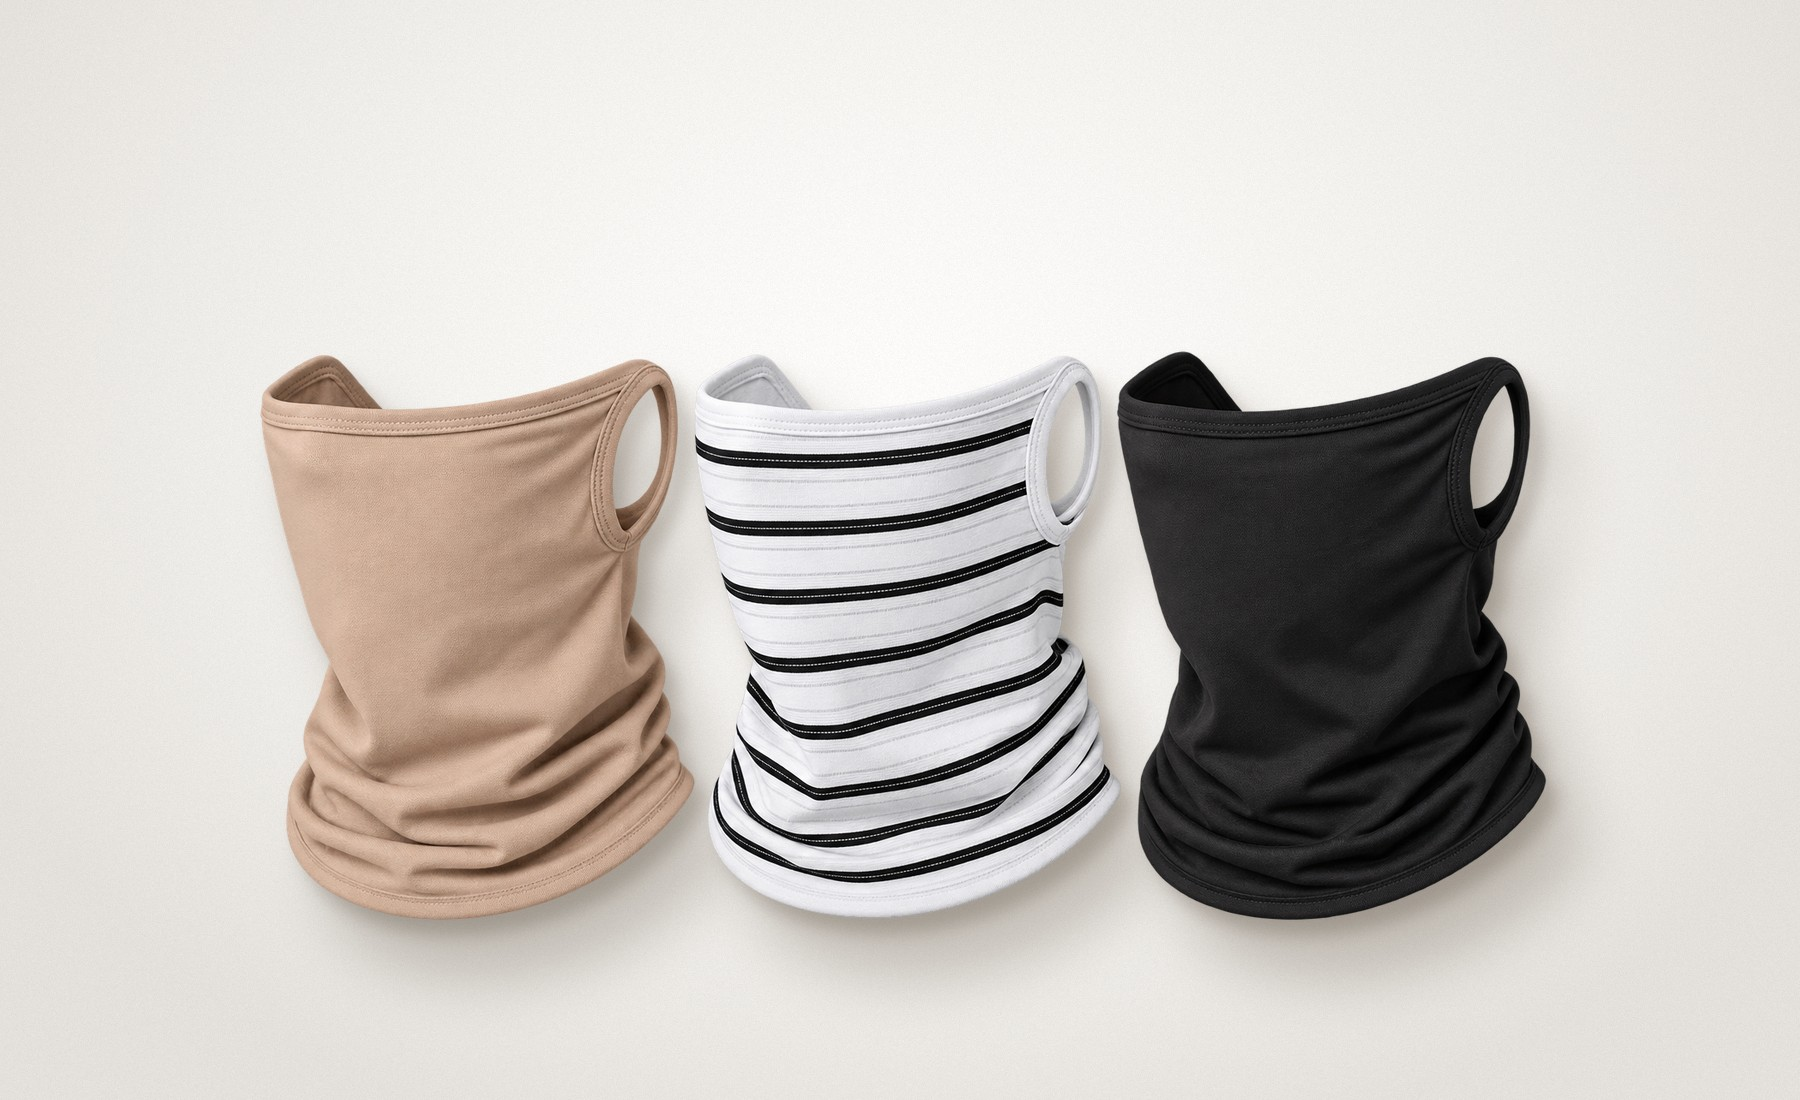
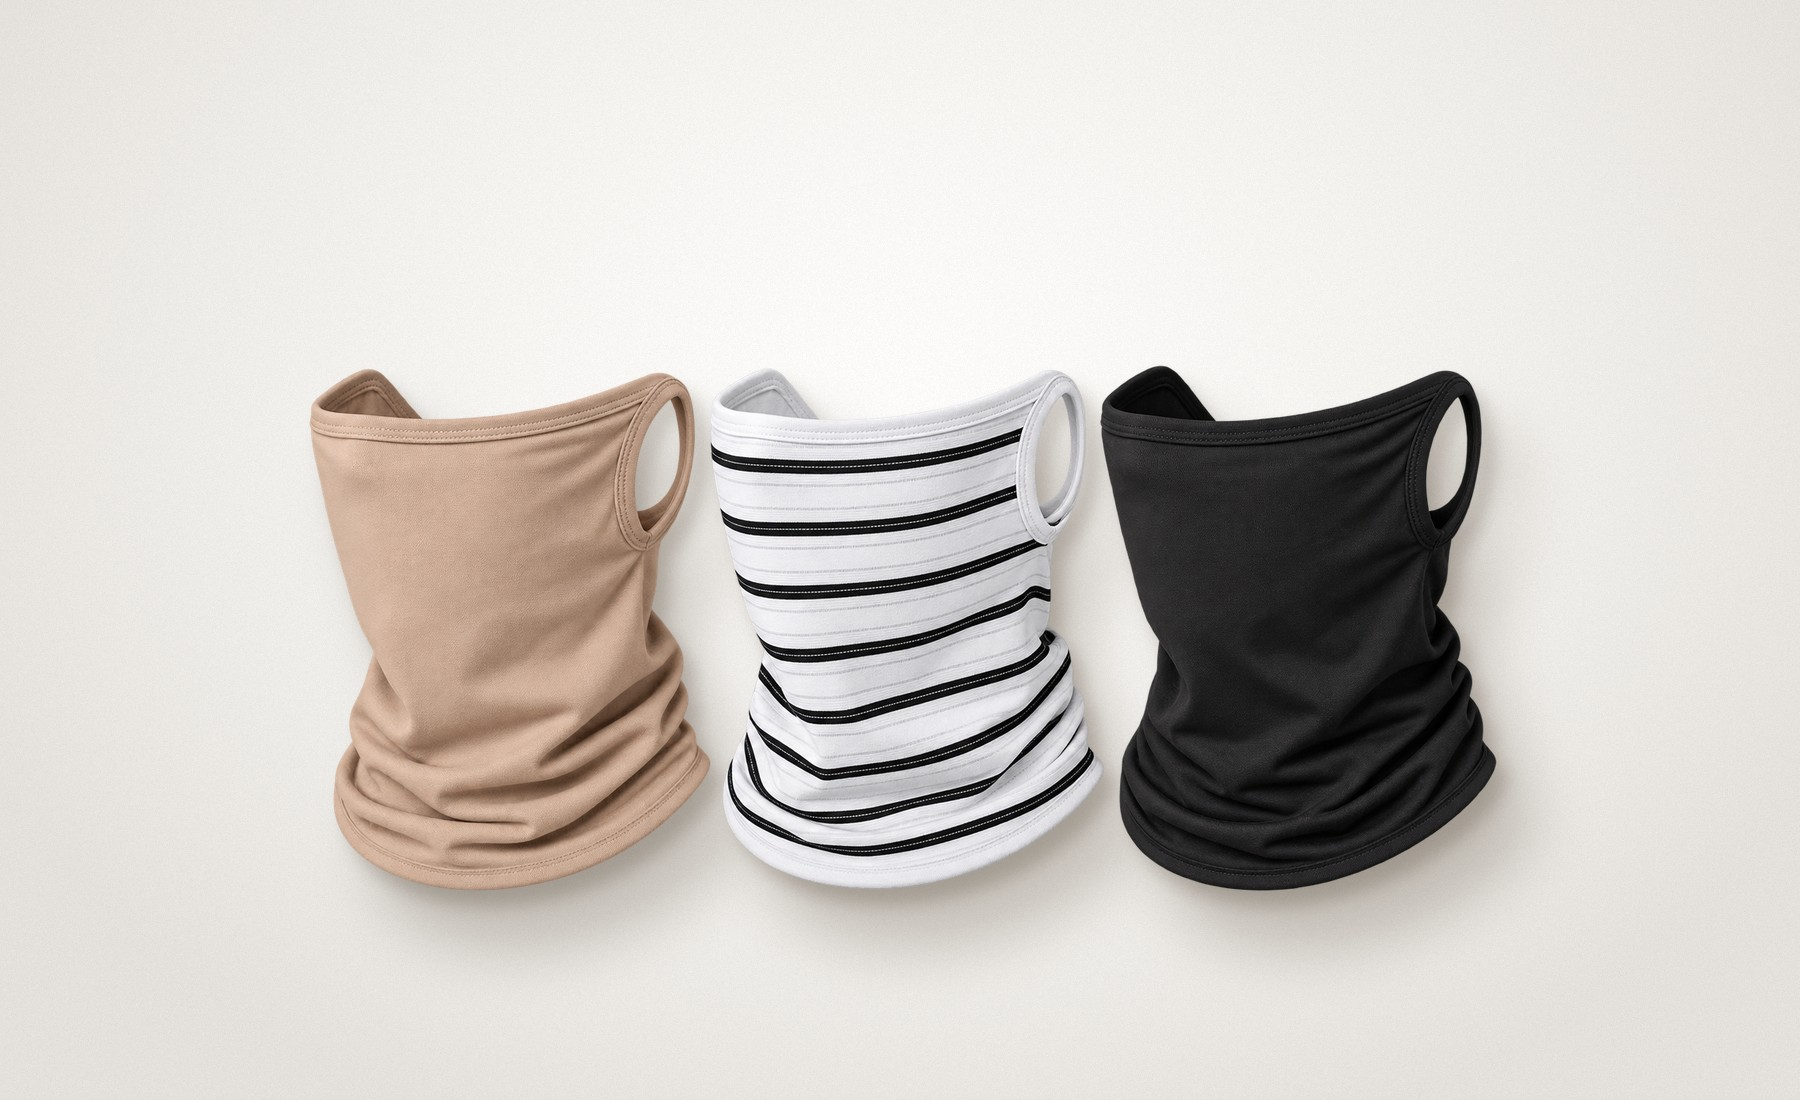
Sync goods assets

Changed region(s): [[0.1244, 0.3091, 0.8711, 0.8655]]

diff --git a/medal/v2/page.html b/medal/v2/page.html
@@ -84,8 +84,6 @@ html,body{margin:0;background:var(--bg);color:var(--fg);font-family:"Pretendard"
 #yh-spec .strip .ar{appearance:none;border:1px solid rgba(255,255,255,.18);background:transparent;color:rgba(255,255,255,.75);width:28px;height:28px;border-radius:50%;display:inline-grid;place-items:center;cursor:pointer;padding:0;transition:background .25s,color .25s,border-color .25s}
 #yh-spec .strip .ar:hover{background:#fff;color:#212121;border-color:#fff}
 #yh-spec .strip .ar:focus-visible{outline:2px solid #fff;outline-offset:2px}
-#yh-spec .strip img.flat{transition:opacity .25s ease}
-#yh-spec .strip img.flat.fade{opacity:.25}
 @media (max-width:520px){#yh-spec .strip .srow{grid-template-columns:1fr;gap:6px}#yh-spec .strip .cap{margin-left:0}}
 
 
@@ -137,15 +135,17 @@ html,body{margin:0;background:var(--bg);color:var(--fg);font-family:"Pretendard"
 /* kit: line drawings rolling beside the list */
 #yh-goods .kit{display:grid;grid-template-columns:minmax(0,1.15fr) minmax(0,1fr);gap:clamp(24px,4vw,64px);align-items:center;margin:clamp(40px,7vh,72px) 0 clamp(56px,9vh,96px)}
 #yh-goods .belt{position:relative;overflow:hidden;-webkit-mask:linear-gradient(90deg,transparent,#000 14%,#000 86%,transparent);mask:linear-gradient(90deg,transparent,#000 14%,#000 86%,transparent)}
-#yh-goods .track{display:flex;align-items:center;width:max-content;animation:yhbelt 76s linear infinite}
-#yh-goods .belt:hover .track{animation-play-state:paused}
-@keyframes yhbelt{to{transform:translateX(-50%)}}
+#yh-goods .track{display:flex;align-items:center;width:max-content;will-change:transform}
+#yh-goods .belt{cursor:grab;touch-action:pan-y;user-select:none;-webkit-user-select:none}
+#yh-goods .belt.drag{cursor:grabbing}
+#yh-goods .belt img{-webkit-user-drag:none;pointer-events:none}
 #yh-goods .it{flex:none;height:clamp(140px,14vw,200px);margin-right:clamp(32px,4vw,64px);display:flex;align-items:center}
 #yh-goods .it img{height:100%;width:auto;opacity:.85}
 #yh-goods .it:has(img[src*="l_bar"]) img{height:50%}
 #yh-goods .it:has(img[src*="l_hat"]) img{height:72%}
 #yh-goods .it:has(img[src*="l_gaiter"]) img{height:66%}
-#yh-goods .it:has(img[src*="l_bag"]) img{height:84%}
+#yh-goods .it:has(img[src*="l_bag"]) img{height:100%}
+#yh-goods .it:has(img[src*="l_jk"]){height:calc(clamp(140px,14vw,200px) * 1.2)}
 #yh-goods tr.grp th{text-align:left;width:auto;white-space:normal;padding:22px 0 8px;font-size:13px;font-weight:800;color:#FF6D07;border-bottom:1px solid rgba(255,255,255,.1)}
 #yh-goods .tile .tg{position:absolute;left:16px;top:16px;background:#212121;color:#fff;font-size:12px;font-weight:800;border-radius:999px;padding:6px 11px;z-index:1}
 #yh-goods .tbl{position:relative}
@@ -201,6 +201,8 @@ html,body{margin:0;background:var(--bg);color:var(--fg);font-family:"Pretendard"
 #yh-goods .tile[aria-expanded="true"]{flex-basis:46%;flex-grow:1.6}
 #yh-goods .tile .ph{position:absolute;inset:0;width:100%;height:100%;object-fit:cover;object-position:50% 50%;transition:transform 1.2s cubic-bezier(.32,.72,0,1)}
 #yh-goods .tile:hover .ph{transform:scale(1.02)}
+#yh-goods .tile .ph.alt{opacity:0;transition:opacity .7s ease .35s,transform 1.2s cubic-bezier(.32,.72,0,1)}
+#yh-goods .tile[aria-expanded="true"] .ph.alt{opacity:1}
 #yh-goods .tile:nth-child(3n+1){color:#212121}
 #yh-goods .tile:nth-child(3n+2),#yh-goods .tile:nth-child(3n){color:#fff}
 #yh-goods .tile .nm{position:absolute;left:18px;bottom:18px;max-width:calc(100% - 36px);padding:10px 14px;border-radius:14px;background:rgba(255,255,255,.88);color:#212121;backdrop-filter:blur(8px);-webkit-backdrop-filter:blur(8px);font-size:clamp(14px,1.2vw,17px);font-weight:800;letter-spacing:-.02em;line-height:1.35;opacity:0;transform:translateY(6px);transition:opacity .25s,transform .25s}
@@ -212,7 +214,7 @@ html,body{margin:0;background:var(--bg);color:var(--fg);font-family:"Pretendard"
 #yh-goods .tile.soon .nm{opacity:1;transform:none;font-size:14px;letter-spacing:.08em;left:50%;top:50%;bottom:auto;transform:translate(-50%,-50%);background:none;color:#fff;white-space:nowrap}
 #yh-goods .note{margin:clamp(48px,8vh,72px) 0 0;font-size:12px;color:rgba(255,255,255,.42);text-align:center}
 @media (max-width:720px){#yh-goods .kit{grid-template-columns:1fr}#yh-goods .tile{flex-basis:38%;height:clamp(210px,54vw,300px)}#yh-goods .tile[aria-expanded="true"]{flex-basis:100%}}
-@media (prefers-reduced-motion:reduce){#yh-goods .track{animation:none}#yh-goods .tile{transition:none}}
+@media (prefers-reduced-motion:reduce){#yh-goods .tile{transition:none}}
 </style>
 <script>
 /* a CDN hiccup on first load shouldn't leave a broken picture: try again twice */
@@ -272,13 +274,25 @@ document.addEventListener('error',function(e){var i=e.target;if(!i||i.tagName!==
 <script>
 (function(){
   var S=document.getElementById('yh-spec');
+  var tick=0,cache={};
+  function base(){return window.YH_ASSET_BASE||''}
+  function load(k){
+    if(cache[k]) return cache[k];
+    var b=base(),u=['rib_'+k+'_out.jpg','rib_'+k+'_in.jpg','strip_'+k+'_out.jpg','strip_'+k+'_in.jpg'];
+    return cache[k]=Promise.all(u.map(function(f){return new Promise(function(r){var im=new Image();im.onload=im.onerror=function(){r()};im.src=b+f})}));
+  }
   function show(k){
-    S.querySelectorAll('image.rib').forEach(function(i){i.setAttribute('href','rib_'+k+'_'+i.dataset.face+'.jpg')});
-    cur=k;
-    S.querySelectorAll('img.flat').forEach(function(i){var src=(window.YH_ASSET_BASE||'')+'strip_'+k+'_'+i.dataset.face+'.jpg';if(i.getAttribute('src')===src)return;var n=new Image();i.classList.add('fade');n.onload=n.onerror=function(){i.src=src;requestAnimationFrame(function(){i.classList.remove('fade')})};n.src=src});
+    cur=k; var mine=++tick;
     S.querySelectorAll('.cl b').forEach(function(b){b.classList.toggle('on',b.dataset.k===k)});
     S.querySelectorAll('.tabs button').forEach(function(b){b.setAttribute('aria-pressed',b.dataset.k===k)});
+    load(k).then(function(){
+      if(mine!==tick) return;                       // a newer choice already won
+      var b=base();
+      S.querySelectorAll('image.rib').forEach(function(i){i.setAttribute('href',b+'rib_'+k+'_'+i.dataset.face+'.jpg')});
+      S.querySelectorAll('img.flat').forEach(function(i){i.src=b+'strip_'+k+'_'+i.dataset.face+'.jpg'});
+    });
   }
+  setTimeout(function(){['5k','10k','15k'].forEach(load)},2500);
   var K=['5k','10k','15k','28k'],cur='28k';
   function go(k){ if(window.YH_setCourse) window.YH_setCourse(k); else show(k); }
   S.querySelectorAll('.tabs button').forEach(function(b){b.addEventListener('click',function(){go(b.dataset.k)})});
@@ -368,8 +382,8 @@ document.addEventListener('error',function(e){var i=e.target;if(!i||i.tagName!==
 <section id="yh-jk" aria-labelledby="yh-jk-t">
  <div class="wrap">
   <span class="tag">15KM · 28KM 트레일런 한정</span>
-  <h2 id="yh-jk-t">2026 YHITF<br>트레일런 기념 자켓</h2>
-  <p class="lead">15KM·28KM 트레일런 참가자에게만 드리는 기념 자켓입니다.<br><strong>소매에는 FINISHER, 등 하단에는 YHITF 로고가 들어갑니다.</strong></p>
+  <h2 id="yh-jk-t">2026 YHITF<br>트레일런 완주 기념 자켓</h2>
+  <p class="lead">15KM · 28KM 트레일런 완주 시,<br>완주를 기념하는 자켓을 받으실 수 있습니다.</p>
   <figure class="hero"><img src="jk_mock.webp" alt="네이비 후드 자켓 여성용과 남성용. 왼쪽 가슴에 YHITF 로고, 오른쪽 소매에 FINISHER 프린트" width="1774" height="887" loading="lazy"><figcaption><span>여성</span><span>남성</span></figcaption></figure>
   <div class="det">
    <figure><div class="fl"><img src="jk_front.webp" alt="자켓 앞면 도안: 왼쪽 가슴 YHITF 로고, 소매 FINISHER" width="1000" height="1597" loading="lazy"></div><figcaption>FRONT</figcaption></figure>
@@ -393,12 +407,34 @@ tabs.forEach(function(b,i){b.addEventListener('click',function(){pick(b)});b.add
   <h2 id="yh-goods-t"><b>10만원 상당</b> 러닝 키트,<br>참가자 전원 증정</h2>
   <div class="kit">
    <div class="belt" aria-label="러닝 키트 구성품 라인 일러스트"><div class="track"><div class="it"><img src="l_tee_front.svg" alt="" decoding="async"></div><div class="it"><img src="l_jk_front.svg" alt="" decoding="async"></div><div class="it"><img src="l_hat_front.svg" alt="" decoding="async"></div><div class="it"><img src="l_bar.svg" alt="" decoding="async"></div><div class="it"><img src="l_bag.svg" alt="" decoding="async"></div><div class="it"><img src="l_tee_back.svg" alt="" decoding="async"></div><div class="it"><img src="l_hat_side.svg" alt="" decoding="async"></div><div class="it"><img src="l_gaiter.svg" alt="" decoding="async"></div><div class="it"><img src="l_medal.svg" alt="" decoding="async"></div><div class="it"><img src="l_jk_back.svg" alt="" decoding="async"></div><div class="it"><img src="l_hat_back.svg" alt="" decoding="async"></div><div class="it"><img src="l_tee_front.svg" alt="" decoding="async"></div><div class="it"><img src="l_jk_front.svg" alt="" decoding="async"></div><div class="it"><img src="l_hat_front.svg" alt="" decoding="async"></div><div class="it"><img src="l_bar.svg" alt="" decoding="async"></div><div class="it"><img src="l_bag.svg" alt="" decoding="async"></div><div class="it"><img src="l_tee_back.svg" alt="" decoding="async"></div><div class="it"><img src="l_hat_side.svg" alt="" decoding="async"></div><div class="it"><img src="l_gaiter.svg" alt="" decoding="async"></div><div class="it"><img src="l_medal.svg" alt="" decoding="async"></div><div class="it"><img src="l_jk_back.svg" alt="" decoding="async"></div><div class="it"><img src="l_hat_back.svg" alt="" decoding="async"></div></div></div>
-   <div class="tbl"><table><thead><tr><th scope="col">구성품</th><th scope="col">수량</th></tr></thead><tbody><tr><td>2026 YHITF 완주 메달</td><td>1ea</td></tr><tr><td>KEEN 콜라보 기념 티셔츠</td><td>1ea</td></tr><tr><td>92 바르셀로나 기념 황영조 감독 사인 모자</td><td>1ea</td></tr><tr><td>네이처밸리 오츠 앤 다크 초콜릿</td><td>1ea</td></tr><tr><td>네이처밸리 크런치 초콜릿칩</td><td>1ea</td></tr><tr><td>타포린백</td><td>1ea</td></tr><tr><td>기능성 마스크<small class="nt">색상 3종 중 랜덤 1 / 선택 불가</small></td><td>1ea</td></tr><tr class="grp"><th scope="rowgroup" colspan="2">15KM · 28KM 트레일런 참가자 추가</th></tr><tr><td>2026 YHITF 트레일런 기념 자켓</td><td>1ea</td></tr><tr class="soon"><td><b class="more">MORE</b></td><td>COMING SOON</td></tr></tbody></table><span class="dots" aria-hidden="true"></span></div>
+   <div class="tbl"><table><thead><tr><th scope="col">구성품</th><th scope="col">수량</th></tr></thead><tbody><tr><td>2026 YHITF 완주 메달</td><td>1ea</td></tr><tr><td>KEEN 콜라보 기념 티셔츠</td><td>1ea</td></tr><tr><td>92 바르셀로나 기념 황영조 감독 사인 모자</td><td>1ea</td></tr><tr><td>네이처밸리 오츠 앤 다크 초콜릿</td><td>1ea</td></tr><tr><td>네이처밸리 크런치 초콜릿칩</td><td>1ea</td></tr><tr><td>타포린백</td><td>1ea</td></tr><tr><td>기능성 마스크<small class="nt">색상 3종 중 랜덤 1 / 선택 불가</small></td><td>1ea</td></tr><tr class="grp"><th scope="rowgroup" colspan="2">15KM · 28KM 트레일런 참가자 대상</th></tr><tr><td>완주 기념 자켓 (완주 시)</td><td>1ea</td></tr></tbody></table></div>
   </div>
-  <div class="tiles"><button type="button" class="tile" aria-expanded="true" aria-label="KEEN 콜라보 기념 티셔츠"><span class="in"><img class="ph" src="t_tee.jpg" alt="" loading="lazy"><span class="nm">KEEN 콜라보 기념 티셔츠</span></span></button><button type="button" class="tile" aria-expanded="false" aria-label="네이처밸리 오츠 앤 다크 초콜릿"><span class="in"><img class="ph" src="t_bar_oats.jpg" alt="" loading="lazy"><span class="nm">네이처밸리 오츠 앤 다크 초콜릿</span></span></button><button type="button" class="tile" aria-expanded="false" aria-label="2026 YHITF 완주 메달"><span class="in"><img class="ph" src="t_medal.jpg" alt="" loading="lazy"><span class="nm">2026 YHITF 완주 메달</span></span></button><button type="button" class="tile" aria-expanded="false" aria-label="네이처밸리 크런치 초콜릿칩"><span class="in"><img class="ph" src="t_bar_choc.jpg" alt="" loading="lazy"><span class="nm">네이처밸리 크런치 초콜릿칩</span></span></button><button type="button" class="tile" aria-expanded="false" aria-label="92 바르셀로나 기념 황영조 감독 사인 모자"><span class="in"><img class="ph" src="t_hat.jpg" alt="" loading="lazy"><span class="nm">92 바르셀로나 기념 황영조 감독 사인 모자</span><span class="meta">FREE (뒷 스트랩 조절)<br>머리둘레 56–60cm</span></span></button><button type="button" class="tile" aria-expanded="false" aria-label="타포린백"><span class="in"><img class="ph" src="t_bag.jpg" alt="" loading="lazy"><span class="nm">타포린백</span></span></button><button type="button" class="tile" aria-expanded="false" aria-label="기능성 마스크, 색상 3종 중 랜덤 1"><span class="in"><img class="ph" src="t_gaiter.jpg" alt="" loading="lazy"><span class="nm">기능성 마스크 (색상 3종 중 랜덤 1)</span></span></button><button type="button" class="tile" aria-expanded="false" aria-label="2026 YHITF 트레일런 기념 자켓, 15KM·28KM 트레일런 한정"><span class="in"><img class="ph" src="t_jacket.jpg" alt="" loading="lazy"><span class="tg">트레일런 한정</span><span class="nm">2026 YHITF 트레일런 기념 자켓</span></span></button></div>
+  <div class="tiles"><button type="button" class="tile" aria-expanded="true" aria-label="KEEN 콜라보 기념 티셔츠"><span class="in"><img class="ph" src="t_tee.jpg" alt="" loading="lazy"><span class="nm">KEEN 콜라보 기념 티셔츠</span></span></button><button type="button" class="tile" aria-expanded="false" aria-label="네이처밸리 오츠 앤 다크 초콜릿"><span class="in"><img class="ph" src="t_bar_oats.jpg" alt="" loading="lazy"><span class="nm">네이처밸리 오츠 앤 다크 초콜릿</span></span></button><button type="button" class="tile" aria-expanded="false" aria-label="2026 YHITF 완주 메달"><span class="in"><img class="ph" src="t_medal.jpg" alt="" loading="lazy"><span class="nm">2026 YHITF 완주 메달</span></span></button><button type="button" class="tile" aria-expanded="false" aria-label="네이처밸리 크런치 초콜릿칩"><span class="in"><img class="ph" src="t_bar_choc.jpg" alt="" loading="lazy"><span class="nm">네이처밸리 크런치 초콜릿칩</span></span></button><button type="button" class="tile" aria-expanded="false" aria-label="92 바르셀로나 기념 황영조 감독 사인 모자"><span class="in"><img class="ph" src="t_hat.jpg" alt="" loading="lazy"><img class="ph alt" src="t_hat_sign.jpg" alt="" loading="lazy"><span class="nm">92 바르셀로나 기념 황영조 감독 사인 모자</span><span class="meta">FREE (뒷 스트랩 조절)<br>머리둘레 56–60cm</span></span></button><button type="button" class="tile" aria-expanded="false" aria-label="타포린백"><span class="in"><img class="ph" src="t_bag.jpg" alt="" loading="lazy"><span class="nm">타포린백</span></span></button><button type="button" class="tile" aria-expanded="false" aria-label="기능성 마스크, 색상 3종 중 랜덤 1"><span class="in"><img class="ph" src="t_gaiter.jpg" alt="" loading="lazy"><span class="nm">기능성 마스크 (색상 3종 중 랜덤 1)</span></span></button><button type="button" class="tile" aria-expanded="false" aria-label="트레일런 완주 기념 자켓, 15KM·28KM 트레일런 완주 시"><span class="in"><img class="ph" src="t_jacket.jpg" alt="" loading="lazy"><span class="tg">트레일런 한정</span><span class="nm">트레일런 완주 기념 자켓 (완주 시)</span></span></button></div>
   <p class="note">이미지는 연출된 것으로 실제 제품과 차이가 있을 수 있습니다.</p>
  </div>
 </section>
+<script>
+(function(){
+  var belt=document.querySelector('#yh-goods .belt'),tr=belt&&belt.querySelector('.track');if(!tr)return;
+  var calm=matchMedia('(prefers-reduced-motion: reduce)').matches,DUR=52;   // seconds per lap
+  var x=0,v=0,drag=false,lx=0,lt=0,hover=false,seen=true,last=performance.now();
+  function half(){return tr.scrollWidth/2}
+  function wrap(){var h=half();if(!h)return;while(x<=-h)x+=h;while(x>0)x-=h}
+  function frame(now){
+    var dt=Math.min(.05,(now-last)/1000);last=now;
+    if(!drag&&seen){var target=(calm||hover)?0:-half()/DUR;v+=(target-v)*Math.min(1,dt*2.5);x+=v*dt;wrap()}
+    tr.style.transform='translate3d('+x.toFixed(2)+'px,0,0)';requestAnimationFrame(frame);
+  }
+  belt.addEventListener('pointerdown',function(e){drag=true;lx=e.clientX;lt=performance.now();v=0;belt.classList.add('drag');belt.setPointerCapture(e.pointerId)});
+  belt.addEventListener('pointermove',function(e){if(!drag)return;var now=performance.now(),dx=e.clientX-lx;x+=dx;wrap();v=dx/Math.max(.008,(now-lt)/1000)*.6;lx=e.clientX;lt=now});
+  function up(){if(!drag)return;drag=false;belt.classList.remove('drag');v=Math.max(-1600,Math.min(1600,v))}
+  belt.addEventListener('pointerup',up);belt.addEventListener('pointercancel',up);
+  belt.addEventListener('pointerenter',function(e){if(e.pointerType==='mouse')hover=true});
+  belt.addEventListener('pointerleave',function(){hover=false});
+  if('IntersectionObserver' in window)new IntersectionObserver(function(es){seen=es[0].isIntersecting}).observe(belt);
+  requestAnimationFrame(frame);
+})();
+</script>
 <script>
 (function(){
   var G=document.getElementById('yh-goods'); var tiles=[].slice.call(G.querySelectorAll('button.tile'));

diff --git a/medal/v2/tiles2.py b/medal/v2/tiles2.py
@@ -37,3 +37,7 @@ Image.fromarray(bg(PAL['blue']).astype(np.uint8)).save(D+'t_soon.jpg',quality=88
 # make('bag_front.png',D+'t_bag.jpg','blue',h=880,rot=-5,bottom=1000)
 # make('gaiter3.png',D+'t_gaiter.jpg','white',w=1300,rot=0,bottom=930,sh=(40,60,28,.6))
 # make('jk_men.png',D+'t_jacket.jpg','orange',h=880,rot=-4,bottom=1010)
+# 2026-10-23 rhythm pass (alternating tilt), run from /home/claude/work/goods:
+# tee(hi_front from tee2.ai) white h930 rot4 b1030 | bar2 orange w900 rot20 b900 | medal3d_hi blue h1180 rot3 b1040
+# bar1 white w760 rot-24 b1000 | hat_three orange h600 rot6 b860 | bag_front blue h840 rot-3 b990
+# gaiter3 white w1200 rot0 b900 | jk_men orange h900 rot5 b1020 | hat_signpair(h4 side+back) orange w1420 rot0 b880 -> t_hat_sign.jpg
